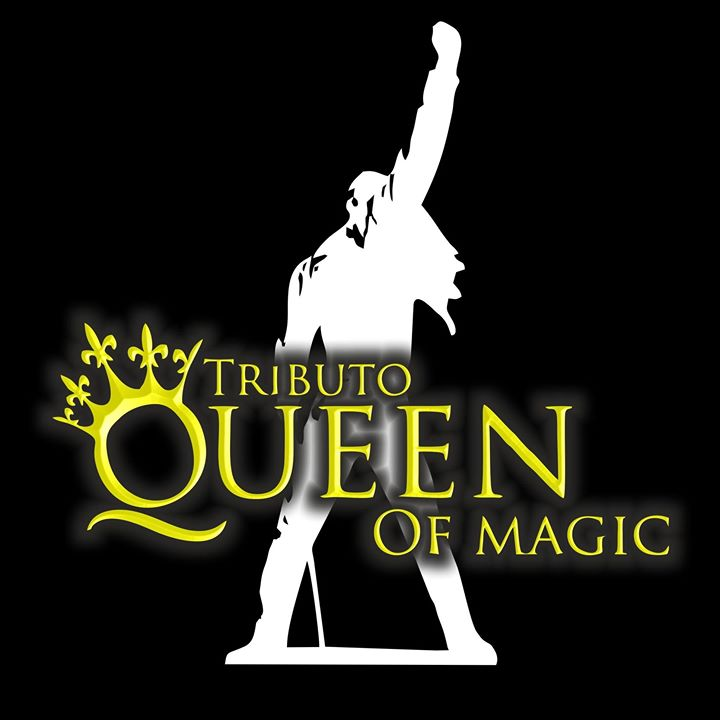
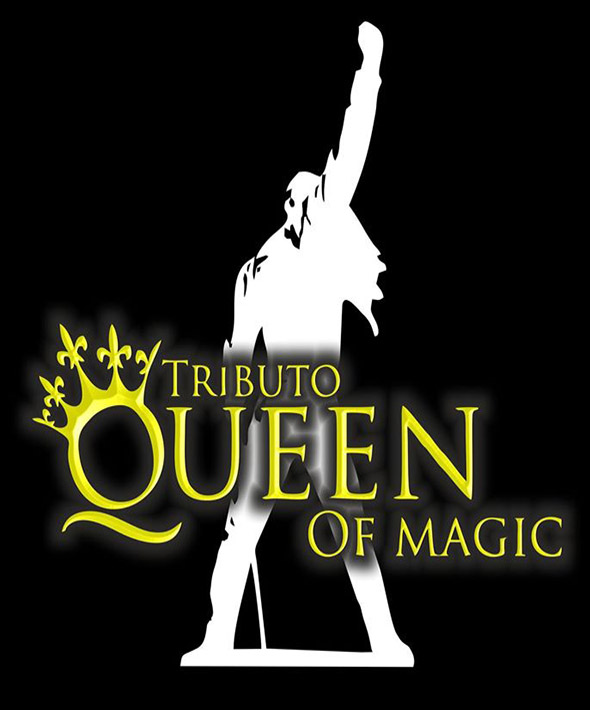
Cambios Home Responsive

Changed region(s): [[0.0305, 0.3099, 0.9763, 0.9606], [0.4576, 0.031, 0.6712, 0.3718]]

diff --git a/index.html b/index.html
@@ -24,10 +24,10 @@
        optimización de la estructura y los metadatos de una web, pero también se aplica a nivel
     de contenidos, con el objetivo de volverlos más útiles y relevantes para los usuarios. -->
     <!-- -->
-    <!-- Cargamos fichero que importa las fuentes de la carpeta fonts -->
-    <link rel="stylesheet" type="text/css" href="CSS/fuentes.css">
     <!-- Cargamos estilos del sitio web -->
     <link rel="stylesheet" type="text/css" href="CSS/estilos.css">
+    <!-- Cargamos fichero que importa las fuentes de la carpeta fonts -->
+    <link rel="stylesheet" type="text/css" href="CSS/fuentes.css">
 </head>
 
 <body>
@@ -52,49 +52,41 @@
     </header>
 
     <!-- CUERPO -->
-    <!-- CUERPO -->
-    <main>
-        <div class="index">
-            <div>
-                <h1>BIOGRAFIA</h1>
-                <br><br>
-                <img src="imagenes/QueenOfMagic.jpg" alt="Imagen del grupo" style="float:right;width:500px;height:600px;">
-                <br><br>
-                <p class="biografia">
-                    Queen, la banda británica de rock más grande de la historia con permiso de los Rolling Stones, brilló sobre los escenarios de todo el mundo durante veinte años. La muerte de su líder Freddie Mecury en 1991 sólo hizo acrecentar la fama de este mítico grupo y elevar a Mercury al altar de los mitos musicales.
-                </p>
-            </div>
-            <div>
-                <br><br>
-                <h1>INICIOS MUSICALES</h1>
-                <br><br>
-                <img src="imagenes/QueenbandRecords.jpg" alt="Imagen grupo" style="float:right;width:200px;height:250px;">
-                <br><br>
-                <p class="inicio">Todo comenzó en 1968, cuando el guitarrista Brian May y el cantante Tim Staffell, dos estudiantes del Imperial Collage, crearon una banda llamada "Smile". A ellos se les unió Roger Taylor en la batería.
+    <main id="table">
+        <div class="tr">
+            <h1>BIOGRAFIA</h1>
+            <img src="imagenes/QueenOfMagic.jpg" alt="Imagen del grupo" id="imgBio">
+            <p>
+                Queen, la banda británica de rock más grande de la historia con permiso de los Rolling Stones, brilló sobre los escenarios de todo el mundo durante veinte años. La muerte de su líder Freddie Mecury en 1991 sólo hizo acrecentar la fama de este mítico grupo y elevar a Mercury al altar de los mitos musicales.
+            </p>
+        </div>
+        <div class="tr">
+            <h1>INICIOS MUSICALES</h1>
+            <img src="imagenes/QueenbandRecords.jpg" alt="Imagen grupo" id="imgQBrecords">
 
-                    Pronto consiguieron un contrato con la discográfica Mercury Records, con quienes grabaron sus primeras demos en los estudios. Tras el abandono de Smile por parte de Staffell, se unió a la banda un amigo de este, Freddie Bulsara.
+            <p>
+                Todo comenzó en 1968, cuando el guitarrista Brian May y el cantante Tim Staffell, dos estudiantes del Imperial Collage, crearon una banda llamada "Smile". A ellos se les unió Roger Taylor en la batería.
 
-                    Tras la llegada de Freddie todo cambió en el grupo, empezando por el nombre de la banda, que pasó a denominarse Queen. Freddie también cambió su apellido y adoptó el nombre completo que le hizo famoso, Freddie Mercury.
+                Pronto consiguieron un contrato con la discográfica Mercury Records, con quienes grabaron sus primeras demos en los estudios. Tras el abandono de Smile por parte de Staffell, se unió a la banda un amigo de este, Freddie Bulsara.
 
-                    A partir de entonces comenzaron a interpretar temas de otros artistas, ofreciendo ocasionales conciertos, preferentemente en teatros. El puesto de bajista fue el más complicado de ocupar y fueron varios los músicos que probaron suerte. Pero no fue hasta que escucharon tocar a John Deacon que se decidieron invitarle a la banda, formado el cuarteto definitivo de Queen. Con estos cuatro nombres (Freddie Mercury, Brian Harold May, Roger Taylor y John Deacon) se completaba el grupo británico de rock más importante de la historia.</p>
-                <br><br>
-            </div>
-            <div>
-                <h1>PRIMER ÁLBUM DE QUEEN</h1>
-                <br><br>
+                Tras la llegada de Freddie todo cambió en el grupo, empezando por el nombre de la banda, que pasó a denominarse Queen. Freddie también cambió su apellido y adoptó el nombre completo que le hizo famoso, Freddie Mercury.
 
-                <p class="primer">En 1973 y tras varias frustraciones, un ejecutivo de la discográfica EMI escuchó una grabación de Queen. Al parecer quedó bastante impresionado con el sonido de la banda y tras contactar con ellos les ofreció firmar un contrato para publicar su primer álbum.
+                A partir de entonces comenzaron a interpretar temas de otros artistas, ofreciendo ocasionales conciertos, preferentemente en teatros. El puesto de bajista fue el más complicado de ocupar y fueron varios los músicos que probaron suerte. Pero no fue hasta que escucharon tocar a John Deacon que se decidieron invitarle a la banda, formado el cuarteto definitivo de Queen. Con estos cuatro nombres (Freddie Mercury, Brian Harold May, Roger Taylor y John Deacon) se completaba el grupo británico de rock más importante de la historia.
+            </p>
+        </div>
+        <div class="tr">
+            <h1>PRIMER ALBUM DE QUEEN</h1>
+            <p>
+                En 1973 y tras varias frustraciones, un ejecutivo de la discográfica EMI escuchó una grabación de Queen. Al parecer quedó bastante impresionado con el sonido de la banda y tras contactar con ellos les ofreció firmar un contrato para publicar su primer álbum.
 
-                    El 13 de julio de ese mismo año vio por fin la luz el primer álbum de Queen, titulado de la misma forma que la banda, "Queen", que incluía los sencillos "Keep Yourself Alive" y "Liar". Las canciones mezclaban la religiosidad de Freddie con el típico rock en su estado puro.
+                El 13 de julio de ese mismo año vio por fin la luz el primer álbum de Queen, titulado de la misma forma que la banda, "Queen", que incluía los sencillos "Keep Yourself Alive" y "Liar". Las canciones mezclaban la religiosidad de Freddie con el típico rock en su estado puro.
 
-                    El álbum contaba con influencias del hard rock y del heavy metal. Los temas fueron compuestos por Freddie Mercury (cinco) Brian May (cuatro) y Roger Taylor (una).
+                El álbum contaba con influencias del hard rock y del heavy metal. Los temas fueron compuestos por Freddie Mercury (cinco) Brian May (cuatro) y Roger Taylor (una).
 
-                    La versión norteamericana de este álbum de Queen fue publicada el 4 de septiembre de 1973 bajo el sello Holywood Records.
+                La versión norteamericana de este álbum de Queen fue publicada el 4 de septiembre de 1973 bajo el sello Holywood Records.
 
-                    Tras una gira como teloneros del grupo "Moot The Hoople", grabaron su segundo LP, "Queen II". Nuevamente emprendieron gira por Gran Bretaña y también iniciaron su primera gira por Estados Unidos, nuevamente como teloneros de "Moot The Hoople". Tras esta gira grabaron un nuevo disco, "Sheer Heart Attack", en 1974, que supuso un gran éxito mundial y el reconocimiento de la calidad del grupo.
-                </p>
-                <br><br>
-            </div>
+                Tras una gira como teloneros del grupo "Moot The Hoople", grabaron su segundo LP, "Queen II". Nuevamente emprendieron gira por Gran Bretaña y también iniciaron su primera gira por Estados Unidos, nuevamente como teloneros de "Moot The Hoople". Tras esta gira grabaron un nuevo disco, "Sheer Heart Attack", en 1974, que supuso un gran éxito mundial y el reconocimiento de la calidad del grupo.
+            </p>
         </div>
     </main>
 
@@ -117,5 +109,4 @@
     </footer>
 
 </body>
-
 </html>

diff --git a/CSS/estilos.css b/CSS/estilos.css
@@ -16,7 +16,8 @@
 /* En selector de body irán las propiedades 
     por defecto para que las hereden otros tags */
 body {
-    font-family: "Tahoma", "Times New Roman";
+    font-family: "Times New Roman", "Van Helsing";
+    color: #333;
     font-size: 85%;
 }
 
@@ -66,7 +67,7 @@ ul#menu li#logo img {
 ul#menu a {
     /* Hereda "font-size: 164.5%" del li css */
     text-decoration: none;
-    color: #000;
+    color: #222;
 }
 
 /* CABECERA */
@@ -79,7 +80,7 @@ header {
 }
 
 header h1 {
-    font-family: "Van Helsing", "Times New Roman";
+    font-family: "Van Helsing";
     font-size: 275%;
     letter-spacing: 5.85px;
 }
@@ -199,6 +200,50 @@ main#photos .tiraImgs img:hover {
     opacity: 1;
 }
 
+main#table {
+    display: table;
+    width: 40%;
+    /* Para centrar el contenedor >> margin: 0 auto; */
+    margin: 0 auto;
+    padding: 1.5%;
+}
+
+main#table .tr:first-child h1 {
+    font-size: 225%;
+}
+
+main#table h1 {
+    font-family: "Van Helsing";
+    text-align: center;
+    font-size: 205%;
+    margin: 20px 0;
+    text-shadow: 3.5px 3.5px 5.5px;
+    letter-spacing: 3.5px;
+}
+
+main#table p {
+    font-size: 110%;
+    text-align: justify;
+    margin-bottom: 5.5%;
+}
+
+main .tr {
+    display: table-row;
+}
+
+main#table #imgBio {
+    width: 99.5%;
+    border-radius: 2.25%;
+    opacity: 0.98;
+}
+
+main#table #imgQBrecords {
+    float: right;
+    width: 194.92px;
+    shape-outside: margin-box;
+    border-radius: 20% 15.5% 37.5% 37.5%;
+    margin: 0 0.0125% 0.025% 0.5%;
+}
 
 /************* > +768PX	Responsive para movil(horizontal) y tablet(vertical): *************/
 /* Desde 768px hasta 1024px de ancho */
@@ -206,7 +251,6 @@ main#photos .tiraImgs img:hover {
 
     /* "@media()" >> media queries: Son elementos de código CSS para adaptar la visualización o renderización de la web a distintas pantallas de diferentes medios y tamaños */
     body {
-        font-family: "Tahoma", "Times New Roman";
         font-size: 92.5%;
     }
 
@@ -280,7 +324,6 @@ main#photos .tiraImgs img:hover {
 /* Desde 1024px de ancho en adelante, altas resoluciones */
 @media (min-width:1024px) {
     body {
-        font-family: "Tahoma", "Times New Roman";
         font-size: 95%;
     }
 
@@ -294,7 +337,7 @@ main#photos .tiraImgs img:hover {
     }
 
     ul#menu li {
-        /* Hereda "font-family: Tahoma" del body css */
+        /* Hereda "font-family: Times New Roman" del body css */
         font-size: 164.5%;
         padding: 5px 3.75% 5px 3.75%;
     }
@@ -331,39 +374,7 @@ main#photos .tiraImgs img:hover {
     }
 
     /* CUERPO */
-    main h1 {
-        color: black;
-        text-align: center;
-    }
 
-    main p {
-        color: black;
+    main#table {}
 
-    }
-    
-    .biografia {
-            color: black;
-			text-align: justify
-            }
-
-    div.index{ 
-         width: 500px;
-         margin: auto;
-                            
-
-        }
-
-	.inicio{
-		
-		text-align: justify;
-
-	}
-	.primer{
-		text-align: justify;
-	}
-
-    div.index {
-        width: 500px;
-        margin: auto;
-    }
 }

diff --git a/fotos.html b/fotos.html
@@ -24,10 +24,10 @@
        optimización de la estructura y los metadatos de una web, pero también se aplica a nivel
     de contenidos, con el objetivo de volverlos más útiles y relevantes para los usuarios. -->
     <!-- -->
+    <!-- Cargamos estilos del sitio web -->
+    <link rel="stylesheet" type="text/css" href="CSS/estilos.css">
     <!-- Cargamos fichero que importa las fuentes de la carpeta fonts -->
     <link rel="stylesheet" type="text/css" href="CSS/fuentes.css">
-    <!-- Cargamos estilos de la web -->
-    <link rel="stylesheet" type="text/css" href="CSS/estilos.css">
 </head>
 
 <body>
@@ -96,5 +96,4 @@
     </footer>
 
 </body>
-
 </html>

diff --git a/contacto.html b/contacto.html
@@ -24,10 +24,10 @@
        optimización de la estructura y los metadatos de una web, pero también se aplica a nivel
     de contenidos, con el objetivo de volverlos más útiles y relevantes para los usuarios. -->
     <!-- -->
+    <!-- Cargamos estilos del sitio web -->
+    <link rel="stylesheet" type="text/css" href="CSS/estilos.css">
     <!-- Cargamos fichero que importa las fuentes de la carpeta fonts -->
     <link rel="stylesheet" type="text/css" href="CSS/fuentes.css">
-    <!-- Cargamos estilos de la web -->
-    <link rel="stylesheet" type="text/css" href="CSS/estilos.css">
 </head>
 
 <body>

diff --git a/musica.html b/musica.html
@@ -24,10 +24,10 @@
        optimización de la estructura y los metadatos de una web, pero también se aplica a nivel
     de contenidos, con el objetivo de volverlos más útiles y relevantes para los usuarios. -->
     <!-- -->
+    <!-- Cargamos estilos del sitio web -->
+    <link rel="stylesheet" type="text/css" href="CSS/estilos.css">
     <!-- Cargamos fichero que importa las fuentes de la carpeta fonts -->
     <link rel="stylesheet" type="text/css" href="CSS/fuentes.css">
-    <!-- Cargamos estilos de la web -->
-    <link rel="stylesheet" type="text/css" href="CSS/estilos.css">
 </head>
 
 <body>

diff --git a/videos.html b/videos.html
@@ -24,10 +24,10 @@
        optimización de la estructura y los metadatos de una web, pero también se aplica a nivel
     de contenidos, con el objetivo de volverlos más útiles y relevantes para los usuarios. -->
     <!-- -->
+    <!-- Cargamos estilos del sitio web -->
+    <link rel="stylesheet" type="text/css" href="CSS/estilos.css">
     <!-- Cargamos fichero que importa las fuentes de la carpeta fonts -->
     <link rel="stylesheet" type="text/css" href="CSS/fuentes.css">
-    <!-- Cargamos estilos de la web -->
-    <link rel="stylesheet" type="text/css" href="CSS/estilos.css">
 </head>
 
 <body>
